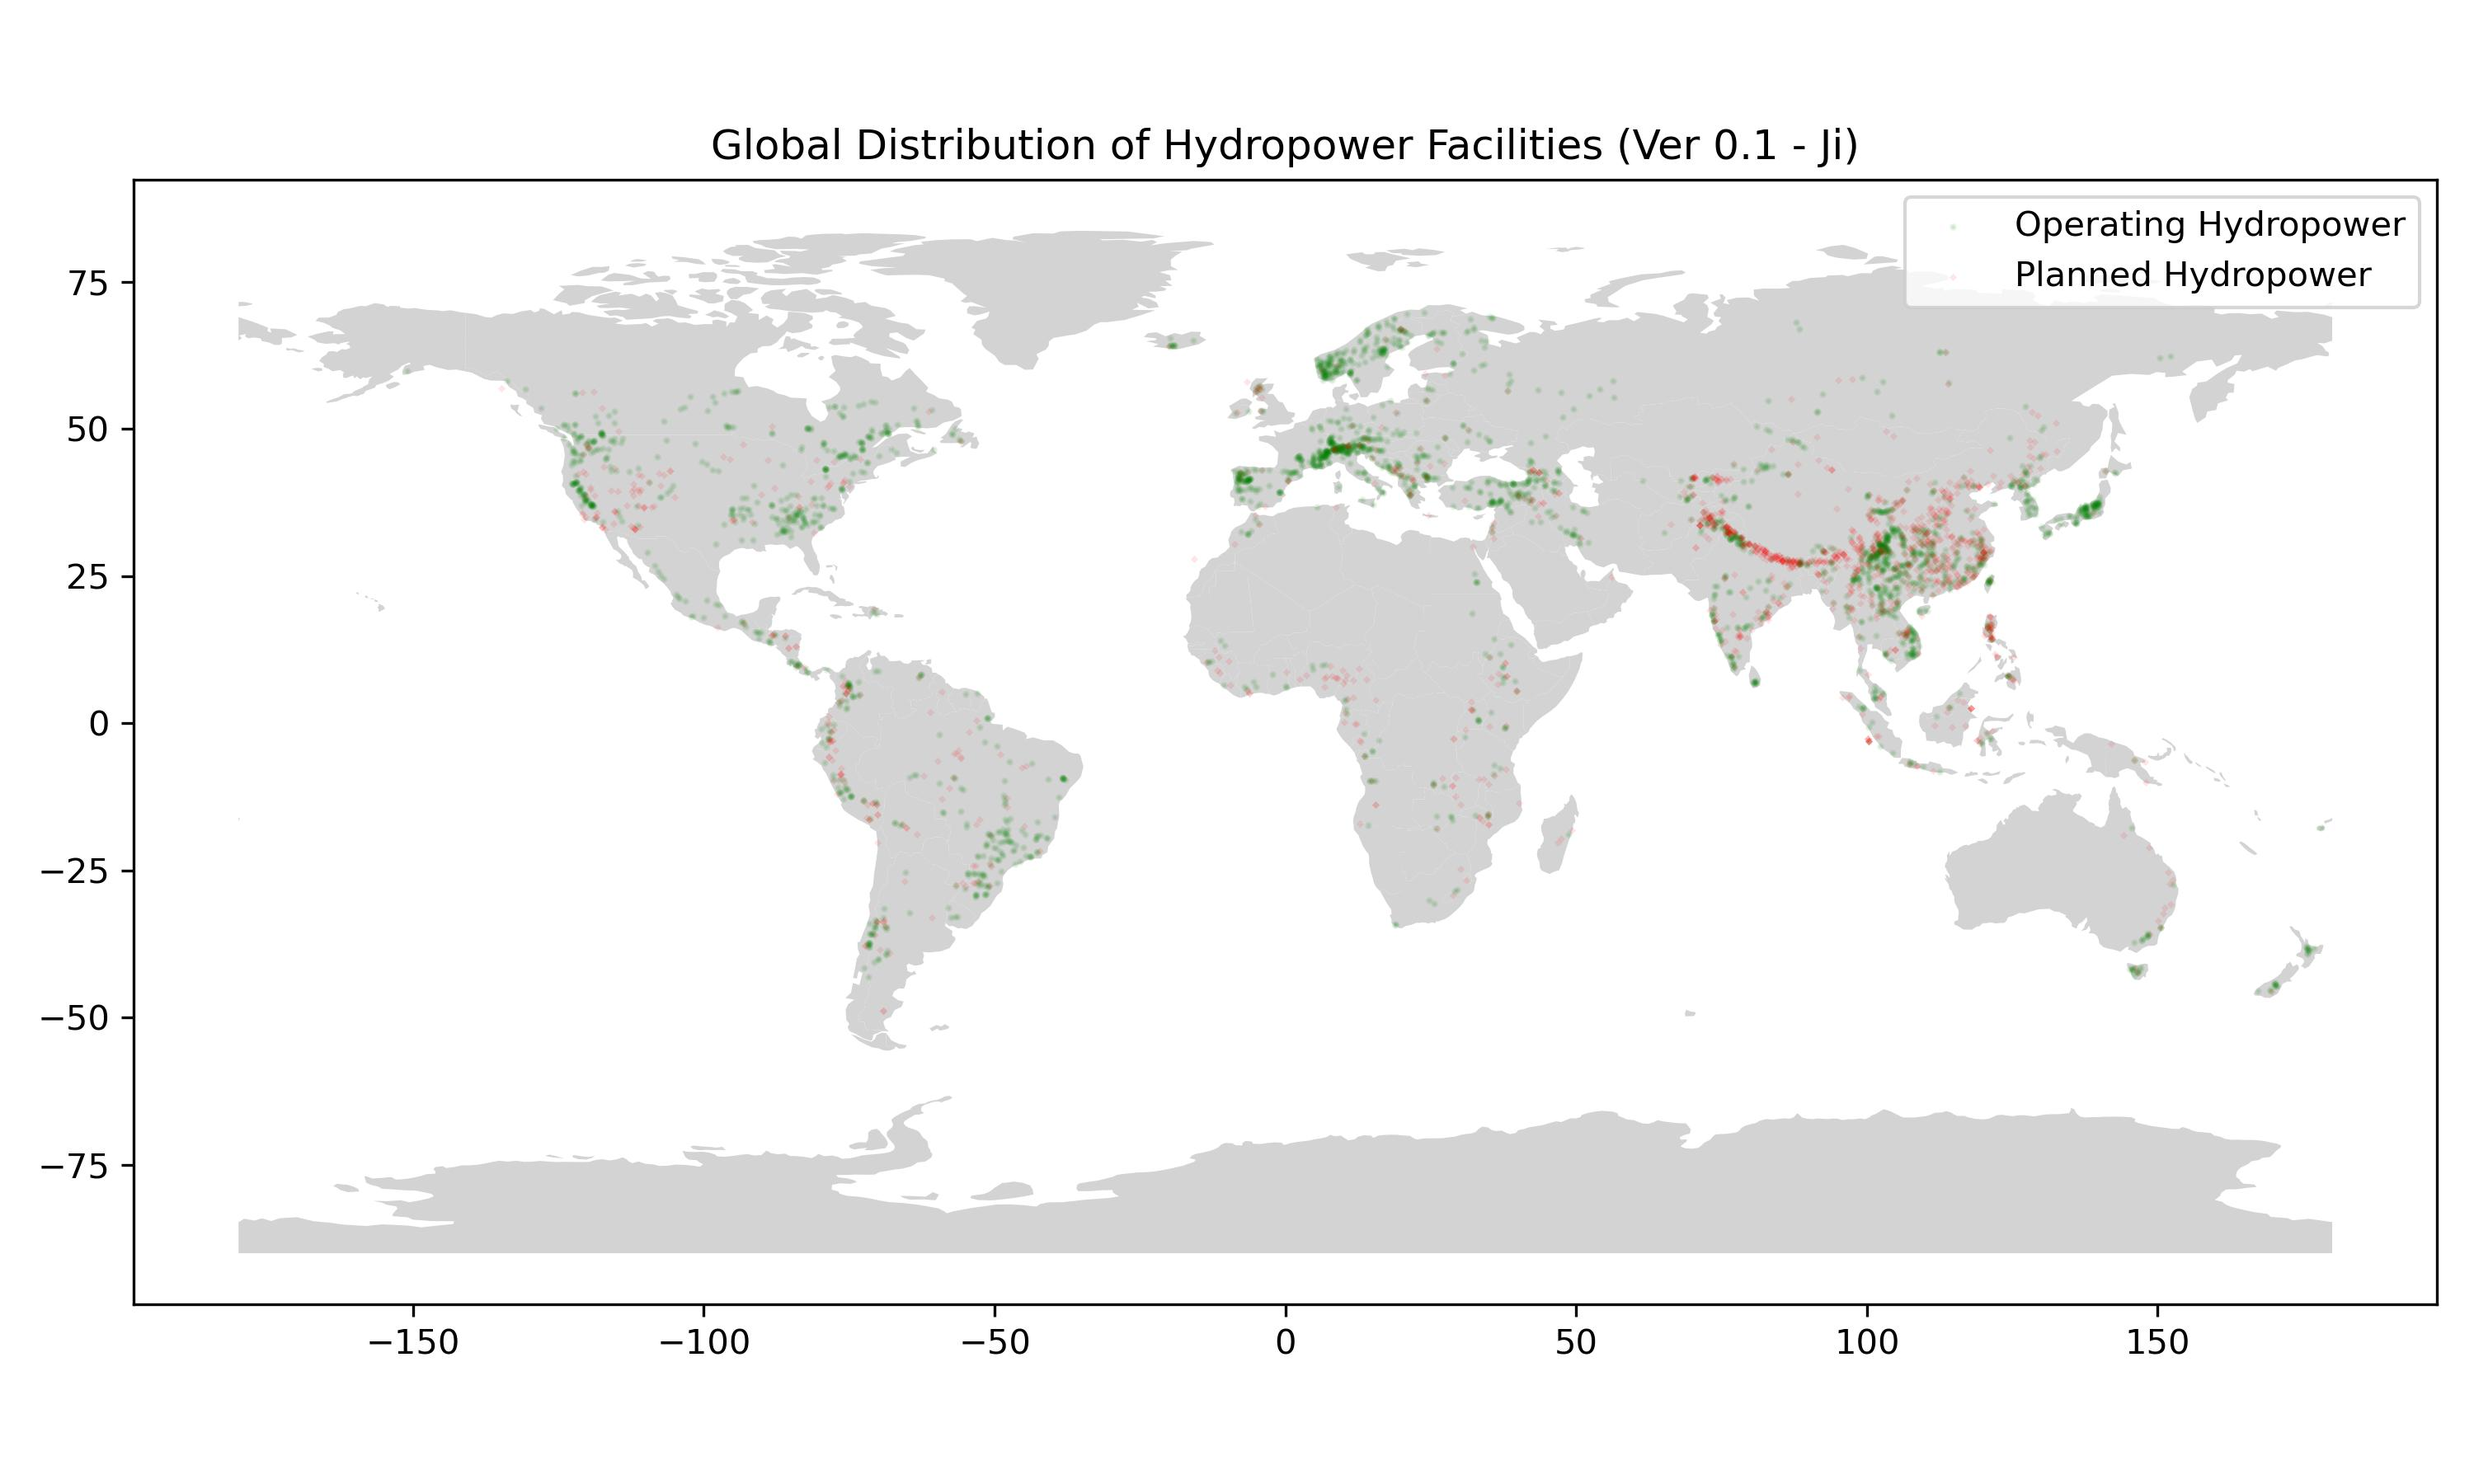
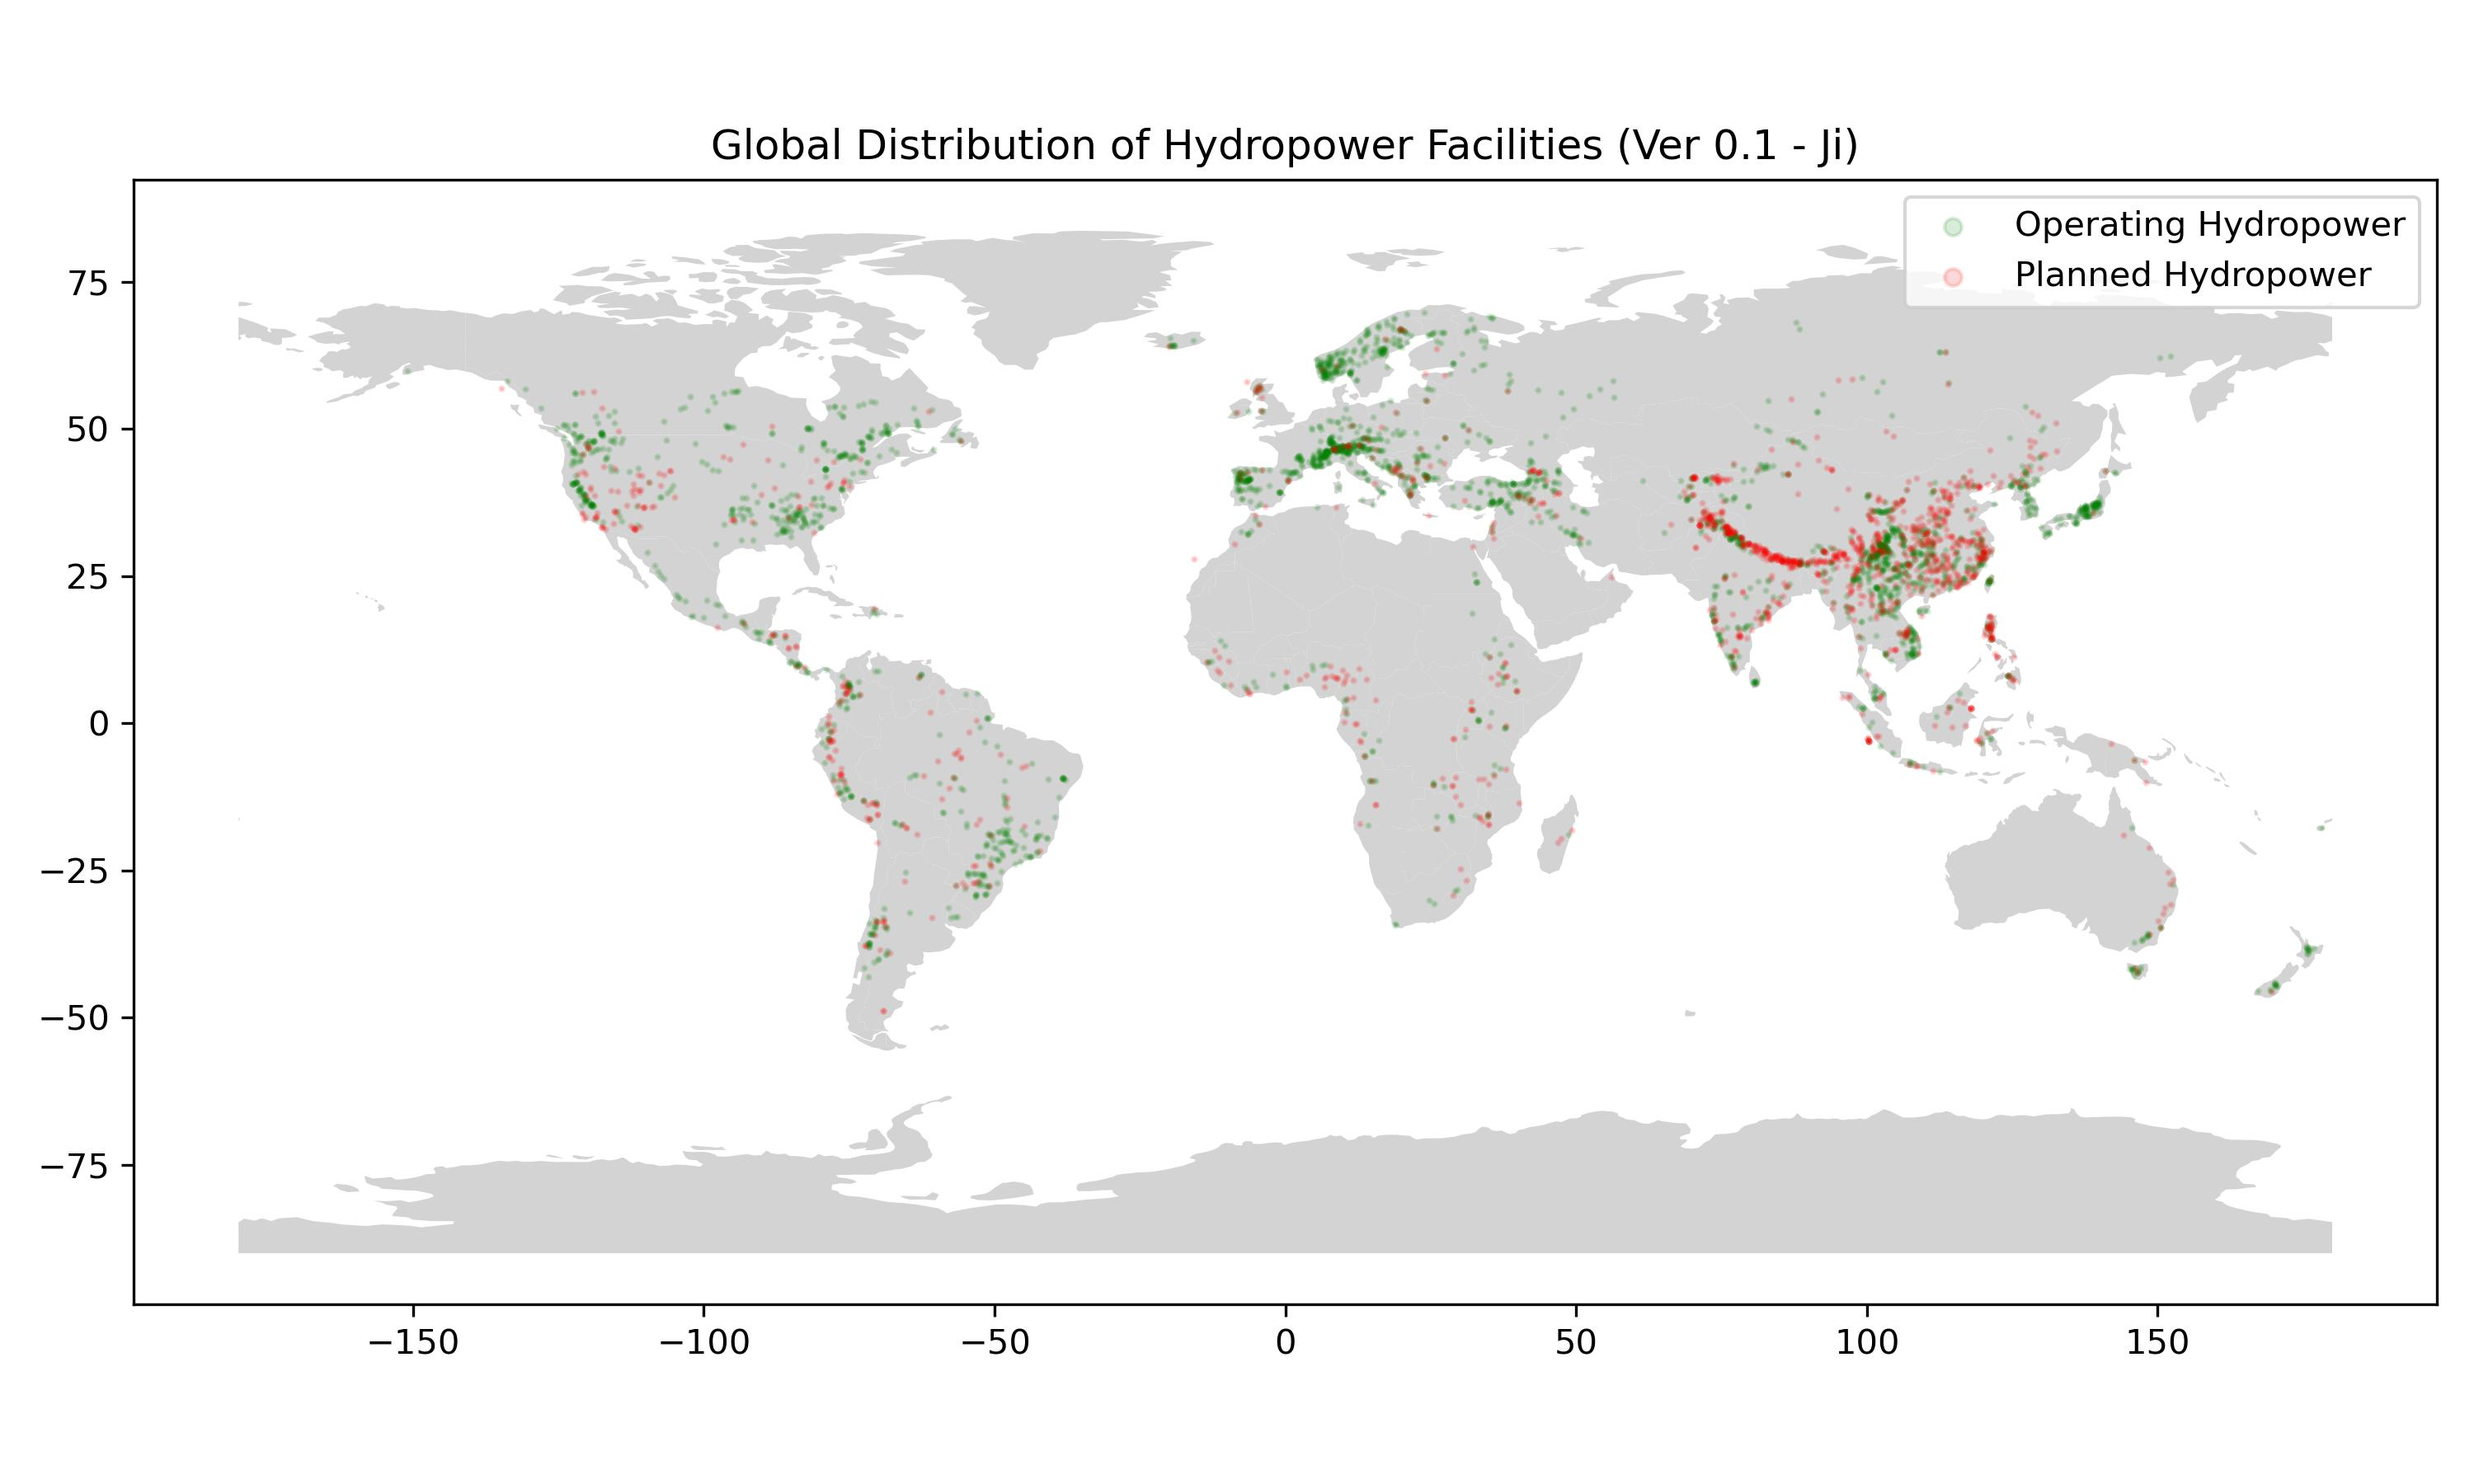
Professor update_rev

diff --git a/dphil_p1.py b/dphil_p1.py
@@ -5,10 +5,12 @@ from shapely.geometry import Point
 from other_data.ldc_list import ldc_countries
 import itertools
 
+### 1. Renewable Energy (RE) data: "gdf" is the GeoDataFrame containing the RE data
+
 # Path to the Excel dataset
 dataset_path = 're_data/Global-Integrated-Power-June-2024.xlsx'
 
-# Specify the sheet name to be read from the file
+# Specify the sheet name from the file
 sheet_name = 'Powerfacilities'
 
 # Read the dataset from the specified sheet using pandas
@@ -17,7 +19,9 @@ df = pd.read_excel(dataset_path, sheet_name=sheet_name)
 # Convert the DataFrame to a GeoDataFrame
 gdf = gpd.GeoDataFrame(df, geometry=[Point(xy) for xy in zip(df.Longitude, df.Latitude)])
 
-# Replace the path below with the actual path to the .shp file on your system
+
+### 2. World map data: "world" is the GeoDataFrame containing the world map data
+# Path to the .shp file
 shapefile_path = 'ne_110m_admin_0_countries/ne_110m_admin_0_countries.shp'
 
 # Load the world map
@@ -30,7 +34,7 @@ gdf.crs = "EPSG:4326"
 if gdf.crs != world.crs:
     world = world.to_crs(gdf.crs)
 
-####################################################################################################
+### (Pending) LDC overlapping
 # Filter for LDC countries
 # ldc_world = world[world['ISO_A3'].isin(ldc_countries)]
 
@@ -42,10 +46,9 @@ if gdf.crs != world.crs:
 
 # Perform a spatial join between the solar projects and LDC countries
 # ldc_solar_projects = gpd.sjoin(gdf, ldc_world, how="inner", predicate='intersects')
-####################################################################################################
+###
 
-# Plotting
-# Define colors for each project type
+### (Pending) Define colors for each project type
 # color_map = {
 #     'solar': 'red',
 #     'wind': 'orange',
@@ -56,21 +59,26 @@ if gdf.crs != world.crs:
 #     'coal': 'purple',
 #     'oil/gas': 'pink',
 # }
+###
 
-# Define the facility types to plot
+### 3. Plotting the global distribution of renewable energy facilities
+
+# Select the facility types to plot
 facility_types = ['solar', 'wind', 'hydropower', 'oil/gas']
 
 # Iterate over each facility type and create a map
 for facility_type in facility_types:
-    # Filter for current facility type
-    current_facilities = gdf[gdf['Type'].str.lower() == facility_type]
+    # Filter for the selected facility types
+    selected_facilities = gdf[gdf['Type'].str.lower() == facility_type]
 
     # Filter for "operating" facilities
-    operating_facilities = current_facilities[current_facilities['Status'] == 'operating']
+    operating_facilities = selected_facilities[selected_facilities['Status'] == 'operating']
+    print(f'Number of operating {facility_type}: {len(operating_facilities)}')
 
     # Filter for "planned" facilities (construction, pre-construction, announced)
     planned_statuses = ['construction', 'pre-construction', 'announced']
-    planned_facilities = current_facilities[current_facilities['Status'].isin(planned_statuses)]
+    planned_facilities = selected_facilities[selected_facilities['Status'].isin(planned_statuses)]
+    print(f'Number of planned {facility_type}: {len(planned_facilities)}')
 
     # Plotting
     fig, ax = plt.subplots(figsize=(10, 6))
@@ -79,13 +87,13 @@ for facility_type in facility_types:
     world.plot(ax=ax, color='lightgray')
 
     # Plot "operating" facilities in green
-    operating_facilities.plot(ax=ax, marker='o', color='green', markersize=1, label=f'Operating {facility_type.title()}', alpha=0.1)
+    operating_facilities.plot(ax=ax, marker='o', color='green', markersize=1, label=f'Operating {facility_type.title()}', alpha=0.15)
 
     # Plot "planned" facilities in red
-    planned_facilities.plot(ax=ax, marker='x', color='red', markersize=1, label=f'Planned {facility_type.title()}', alpha=0.1)
+    planned_facilities.plot(ax=ax, marker='o', color='red', markersize=1, label=f'Planned {facility_type.title()}', alpha=0.15)
 
     # Legend and titles
-    ax.legend()
+    ax.legend(markerscale=5)
     ax.set_title(f'Global Distribution of {facility_type.title()} Facilities (Ver 0.1 - Ji)')
 
     # Save the figure to a JPG file
